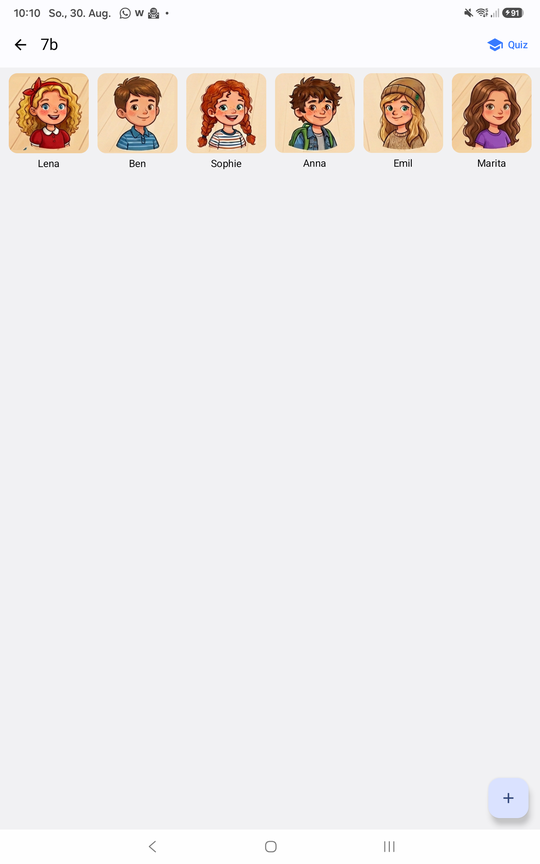
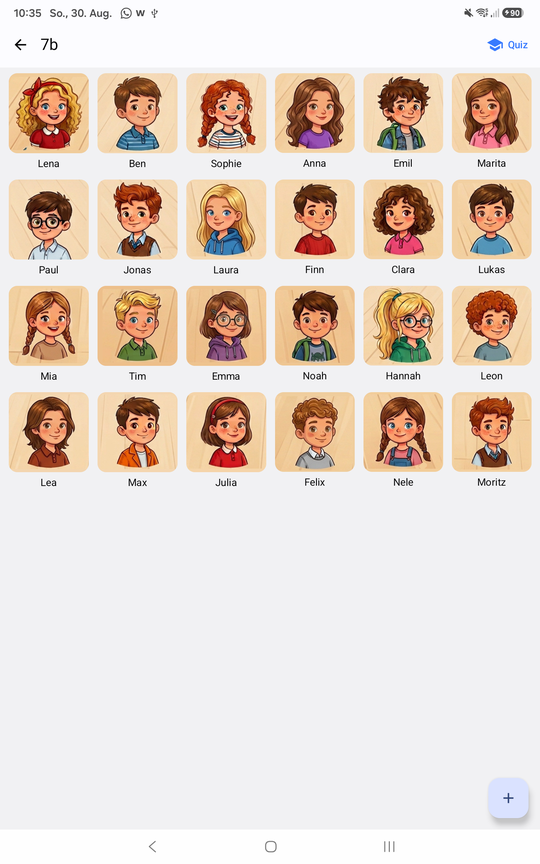
Demoklasse beim ersten Start, Geschlecht nur Mädchen/Junge, v0.2

Changed region(s): [[0.0, 0.0625, 1.0, 0.5625], [0.0593, 0.0, 0.2963, 0.0312], [0.9481, 0.0, 0.9778, 0.0312]]

diff --git a/app/src/main/java/de/namio/core/repository/DemoDaten.kt b/app/src/main/java/de/namio/core/repository/DemoDaten.kt
@@ -1,0 +1,81 @@
+package de.namio.core.repository
+
+import androidx.datastore.core.DataStore
+import androidx.datastore.preferences.core.Preferences
+import androidx.datastore.preferences.core.booleanPreferencesKey
+import androidx.datastore.preferences.core.edit
+import de.namio.core.data.dao.SchuelerDao
+import de.namio.core.data.entity.SchuelerEntity
+import de.namio.core.media.FotoStore
+import de.namio.core.model.Geschlecht
+import de.namio.core.model.Geschlecht.JUNGE
+import de.namio.core.model.Geschlecht.MAEDCHEN
+import kotlinx.coroutines.flow.first
+import javax.inject.Inject
+import javax.inject.Singleton
+
+/**
+ * Legt beim allerersten Start eine Demoklasse mit 24 Avataren an, damit die App nicht leer
+ * startet. Wird sie gelöscht, kommt sie nicht wieder – das merkt sich ein DataStore-Flag.
+ */
+@Singleton
+class DemoDaten @Inject constructor(
+    private val klassenRepository: KlassenRepository,
+    private val schuelerDao: SchuelerDao,
+    private val fotoStore: FotoStore,
+    private val dataStore: DataStore<Preferences>,
+) {
+    private data class Demo(val vorname: String, val nachname: String, val geschlecht: Geschlecht, val avatar: Int)
+
+    private val schueler = listOf(
+        Demo("Lena", "Meier", MAEDCHEN, 15),
+        Demo("Ben", "Schulz", JUNGE, 2),
+        Demo("Sophie", "Kaiser", MAEDCHEN, 3),
+        Demo("Anna", "Berg", MAEDCHEN, 8),
+        Demo("Emil", "Roth", JUNGE, 4),
+        Demo("Marita", "Burger", MAEDCHEN, 13),
+        Demo("Paul", "Winter", JUNGE, 6),
+        Demo("Jonas", "Fischer", JUNGE, 7),
+        Demo("Laura", "Schmidt", MAEDCHEN, 12),
+        Demo("Finn", "Weber", JUNGE, 18),
+        Demo("Clara", "Hoffmann", MAEDCHEN, 19),
+        Demo("Lukas", "Braun", JUNGE, 20),
+        Demo("Mia", "Wagner", MAEDCHEN, 24),
+        Demo("Tim", "Krüger", JUNGE, 30),
+        Demo("Emma", "Neumann", MAEDCHEN, 32),
+        Demo("Noah", "Lange", JUNGE, 33),
+        Demo("Hannah", "Koch", MAEDCHEN, 1),
+        Demo("Leon", "Schäfer", JUNGE, 9),
+        Demo("Lea", "Vogel", MAEDCHEN, 10),
+        Demo("Max", "Richter", JUNGE, 11),
+        Demo("Julia", "Klein", MAEDCHEN, 17),
+        Demo("Felix", "Wolf", JUNGE, 23),
+        Demo("Nele", "Schröder", MAEDCHEN, 27),
+        Demo("Moritz", "Hartmann", JUNGE, 25),
+    )
+
+    /** Legt die Demoklasse an, falls das noch nie passiert ist. Mehrfachaufruf ist harmlos. */
+    suspend fun anlegenFallsErsterStart() {
+        val prefs = dataStore.data.first()
+        if (prefs[DEMO_ANGELEGT] == true) return
+        val klasseId = klassenRepository.anlegen(name = "7b", schule = "Demoklasse", jahrgang = "")
+        schueler.forEachIndexed { index, demo ->
+            val foto = runCatching { fotoStore.speichereAvatar("avatar_%02d.jpg".format(demo.avatar)) }.getOrNull()
+            schuelerDao.insert(
+                SchuelerEntity(
+                    klasseId = klasseId,
+                    vorname = demo.vorname,
+                    nachname = demo.nachname,
+                    fotoDatei = foto,
+                    sortIndex = index,
+                    geschlecht = demo.geschlecht,
+                ),
+            )
+        }
+        dataStore.edit { it[DEMO_ANGELEGT] = true }
+    }
+
+    private companion object {
+        val DEMO_ANGELEGT = booleanPreferencesKey("demo_angelegt")
+    }
+}

diff --git a/app/src/main/java/de/namio/feature/klassen/KlassenListeViewModel.kt b/app/src/main/java/de/namio/feature/klassen/KlassenListeViewModel.kt
@@ -4,6 +4,7 @@ import androidx.lifecycle.ViewModel
 import androidx.lifecycle.viewModelScope
 import dagger.hilt.android.lifecycle.HiltViewModel
 import de.namio.core.model.KlasseUebersicht
+import de.namio.core.repository.DemoDaten
 import de.namio.core.repository.KlassenRepository
 import kotlinx.coroutines.flow.SharingStarted
 import kotlinx.coroutines.flow.StateFlow
@@ -20,7 +21,12 @@ data class KlassenListeUiState(
 @HiltViewModel
 class KlassenListeViewModel @Inject constructor(
     private val repository: KlassenRepository,
+    demoDaten: DemoDaten,
 ) : ViewModel() {
+
+    init {
+        viewModelScope.launch { runCatching { demoDaten.anlegenFallsErsterStart() } }
+    }
 
     val uiState: StateFlow<KlassenListeUiState> = repository.observeUebersicht()
         .map { KlassenListeUiState(klassen = it, laedt = false) }

diff --git a/app/src/main/java/de/namio/core/data/di/EinstellungenModule.kt b/app/src/main/java/de/namio/core/data/di/EinstellungenModule.kt
@@ -1,0 +1,22 @@
+package de.namio.core.data.di
+
+import android.content.Context
+import androidx.datastore.core.DataStore
+import androidx.datastore.preferences.core.Preferences
+import androidx.datastore.preferences.preferencesDataStore
+import dagger.Module
+import dagger.Provides
+import dagger.hilt.InstallIn
+import dagger.hilt.android.qualifiers.ApplicationContext
+import dagger.hilt.components.SingletonComponent
+import javax.inject.Singleton
+
+private val Context.einstellungen: DataStore<Preferences> by preferencesDataStore(name = "einstellungen")
+
+@Module
+@InstallIn(SingletonComponent::class)
+object EinstellungenModule {
+    @Provides
+    @Singleton
+    fun dataStore(@ApplicationContext context: Context): DataStore<Preferences> = context.einstellungen
+}
